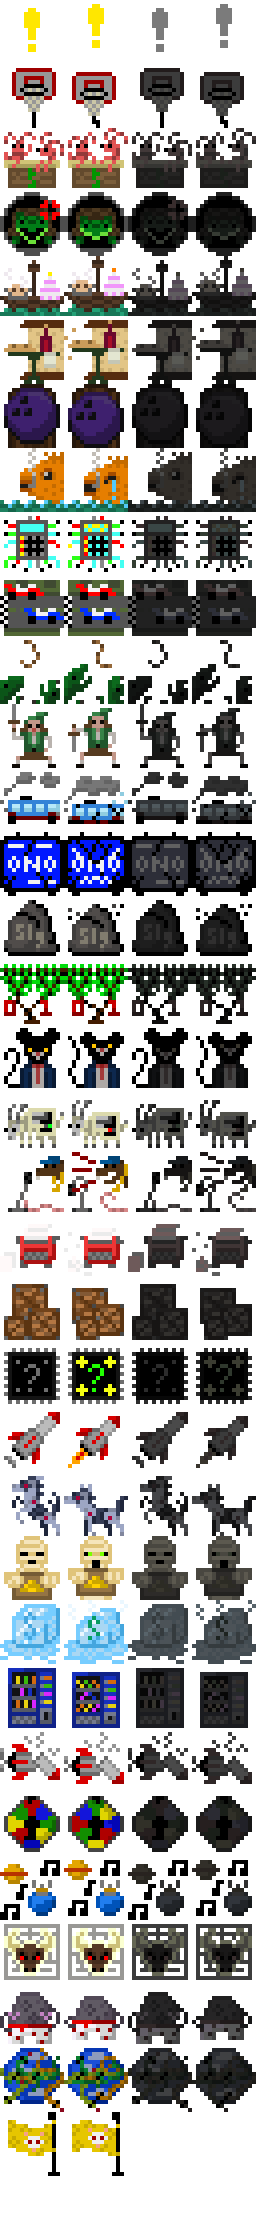
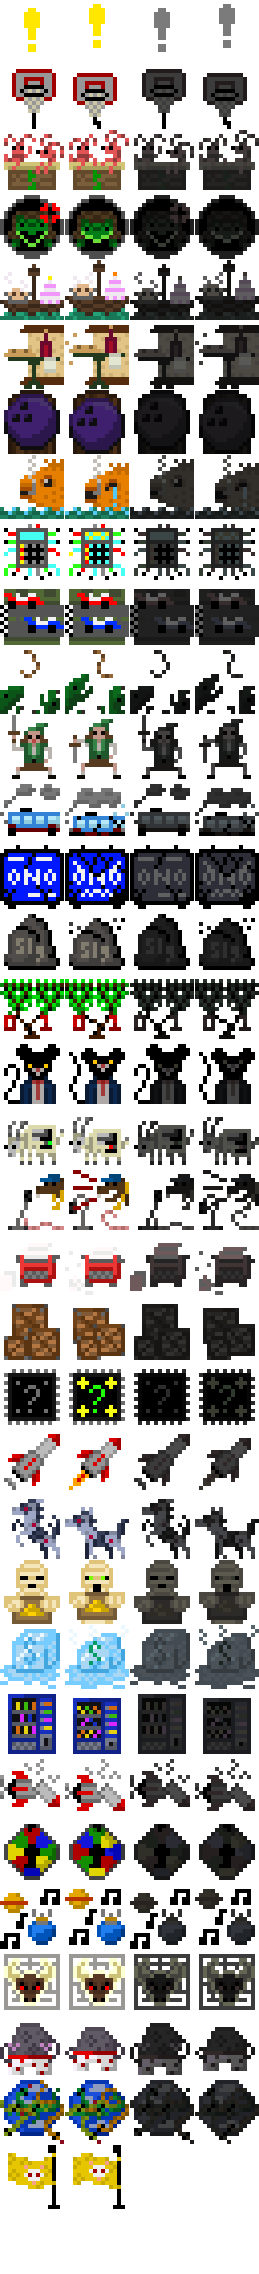
Use the ticker for animations so that we can pause everything consistently, and also include a 1px gap between every pair of images so that nothing bleeds over.

diff --git a/src/app/game-screen/game-tabs/game-tab-map/landmark-markers/landmark-markers.ts b/src/app/game-screen/game-tabs/game-tab-map/landmark-markers/landmark-markers.ts
@@ -19,7 +19,7 @@ export class LandmarkMarkers {
       beforeInit() {
         loadSpritesheetTexture = Assets.load<Texture>('/assets/images/locations.webp');
       },
-      async afterInit(_app, root) {
+      async afterInit(app, root) {
         if (!loadSpritesheetTexture) {
           throw new Error("beforeInit() must finish before afterInit() may start");
         }
@@ -42,7 +42,7 @@ export class LandmarkMarkers {
 
         // Generate frame definitions for each landmark
         for (const [landmarkKey, landmark] of Object.entries(LANDMARKS)) {
-          const offsetY = landmark.sprite_index * 64;
+          const offsetY = landmark.sprite_index * 65;
 
           // OnFrame1 (offsetX: 0)
           spritesheetData.frames[`${landmarkKey}_on_1`] = {
@@ -53,21 +53,21 @@ export class LandmarkMarkers {
 
           // OnFrame2 (offsetX: 64)
           spritesheetData.frames[`${landmarkKey}_on_2`] = {
-            frame: { x: 64, y: offsetY, w: 64, h: 64 },
+            frame: { x: 65, y: offsetY, w: 64, h: 64 },
             sourceSize: { w: 64, h: 64 },
             spriteSourceSize: { x: 0, y: 0, w: 64, h: 64 }
           };
 
           // OffFrame1 (offsetX: 128)
           spritesheetData.frames[`${landmarkKey}_off_1`] = {
-            frame: { x: 128, y: offsetY, w: 64, h: 64 },
+            frame: { x: 130, y: offsetY, w: 64, h: 64 },
             sourceSize: { w: 64, h: 64 },
             spriteSourceSize: { x: 0, y: 0, w: 64, h: 64 }
           };
 
           // OffFrame2 (offsetX: 192)
           spritesheetData.frames[`${landmarkKey}_off_2`] = {
-            frame: { x: 192, y: offsetY, w: 64, h: 64 },
+            frame: { x: 195, y: offsetY, w: 64, h: 64 },
             sourceSize: { w: 64, h: 64 },
             spriteSourceSize: { x: 0, y: 0, w: 64, h: 64 }
           };
@@ -77,11 +77,16 @@ export class LandmarkMarkers {
         const spritesheet = new Spritesheet(spritesheetTexture, spritesheetData);
         await spritesheet.parse();
 
+        // Set up animation cycling between frames
+        const frameImages: [s: Sprite, [on1: Texture, on2: Texture], [off1: Texture, off2: Texture]][] = [];
+
         // Create sprites for each landmark
         for (const [landmarkKey, landmark] of Object.entries(LANDMARKS)) {
           // For now, create "on" sprites - we can add state management later
           const onFrame1 = spritesheet.textures[`${landmarkKey}_on_1`];
           const onFrame2 = spritesheet.textures[`${landmarkKey}_on_2`];
+          const offFrame1 = spritesheet.textures[`${landmarkKey}_off_1`];
+          const offFrame2 = spritesheet.textures[`${landmarkKey}_off_2`];
 
           const sprite = new Sprite(onFrame1);
 
@@ -89,22 +94,30 @@ export class LandmarkMarkers {
           sprite.scale.set(0.25);
 
           // Position using landmark coordinates
-          sprite.position.set(landmark.coords[0], landmark.coords[1]);
+          sprite.position.set(landmark.coords[0] - 8, landmark.coords[1] - 8);
 
           root.addChild(sprite);
+          frameImages.push([sprite, [onFrame1, onFrame2], [offFrame1, offFrame2]]);
 
-          // Set up animation cycling between frames
-          let currentFrame = 1;
-          setInterval(() => {
-            if (currentFrame === 1) {
-              sprite.texture = onFrame2;
-              currentFrame = 2;
-            } else {
-              sprite.texture = onFrame1;
-              currentFrame = 1;
-            }
-          }, 500); // Cycle every 500ms
+          // Set the initial value, otherwise a game that starts paused won't get it.
+          sprite.texture = onFrame1;
         }
+
+        const context = {
+          currentCycleTime: 0,
+          currentFrameShown: 0,
+          frameImages,
+        };
+        app.ticker.add(function (t) {
+          this.currentCycleTime = (this.currentCycleTime + t.deltaMS) % 1000;
+          const currentFrame = Math.floor(this.currentCycleTime * 0.002);
+          if (this.currentFrameShown !== currentFrame) {
+            this.currentFrameShown = currentFrame;
+            for (const [sprite, frames] of this.frameImages) {
+              sprite.texture = frames[currentFrame];
+            }
+          }
+        }, context);
       }
     });
   }

diff --git a/src/app/game-screen/game-tabs/game-tab-map/pause-button/pause-button.ts b/src/app/game-screen/game-tabs/game-tab-map/pause-button/pause-button.ts
@@ -1,5 +1,7 @@
-import { Component, inject } from '@angular/core';
+import { Component, effect, inject, signal } from '@angular/core';
 import { GameScreenStore } from "../../../../store/game-screen-store";
+import { PixiService } from "../pixi-service";
+import { Ticker } from "pixi.js";
 
 @Component({
   selector: 'app-pause-button',
@@ -29,4 +31,25 @@ export class PauseButton {
   readonly paused = this.#store.paused;
 
   readonly togglePause = this.#store.togglePause;
+
+  constructor() {
+    const ticker = signal<Ticker | null>(null);
+    inject(PixiService).registerPlugin({
+      afterInit: app => {
+        // even if we start paused, the ticker needs to run once to get the initial frames.
+        app.ticker.addOnce(t => { ticker.set(t); });
+      },
+    });
+
+    effect(() => {
+      const theTicker = ticker();
+      if (theTicker && (this.paused() === theTicker.started)) {
+        if (this.paused()) {
+          theTicker.stop();
+        } else {
+          theTicker.start();
+        }
+      }
+    });
+  }
 }

diff --git a/src/app/game-screen/game-tabs/game-tab-map/pixi-service.ts b/src/app/game-screen/game-tabs/game-tab-map/pixi-service.ts
@@ -43,7 +43,7 @@ export class PixiService {
     const reciprocalOriginalHeight = 1 / 450.0;
     const root = this.#app.stage;
     await this.#beforeInit?.(this.#app, root);
-    await this.#app.init({ canvas, resizeTo: outer, backgroundAlpha: 0, antialias: false });
+    await this.#app.init({ canvas, resizeTo: outer, backgroundAlpha: 0, antialias: false, autoStart: false });
     root.scale.x = canvas.width * reciprocalOriginalWidth;
     root.scale.y = canvas.height * reciprocalOriginalHeight;
     fromEvent(canvas, 'resize').subscribe(() => {
@@ -51,5 +51,6 @@ export class PixiService {
       root.scale.y = canvas.height * reciprocalOriginalHeight;
     });
     await this.#afterInit?.(this.#app, root);
+    this.#app.start();
   }
 }
